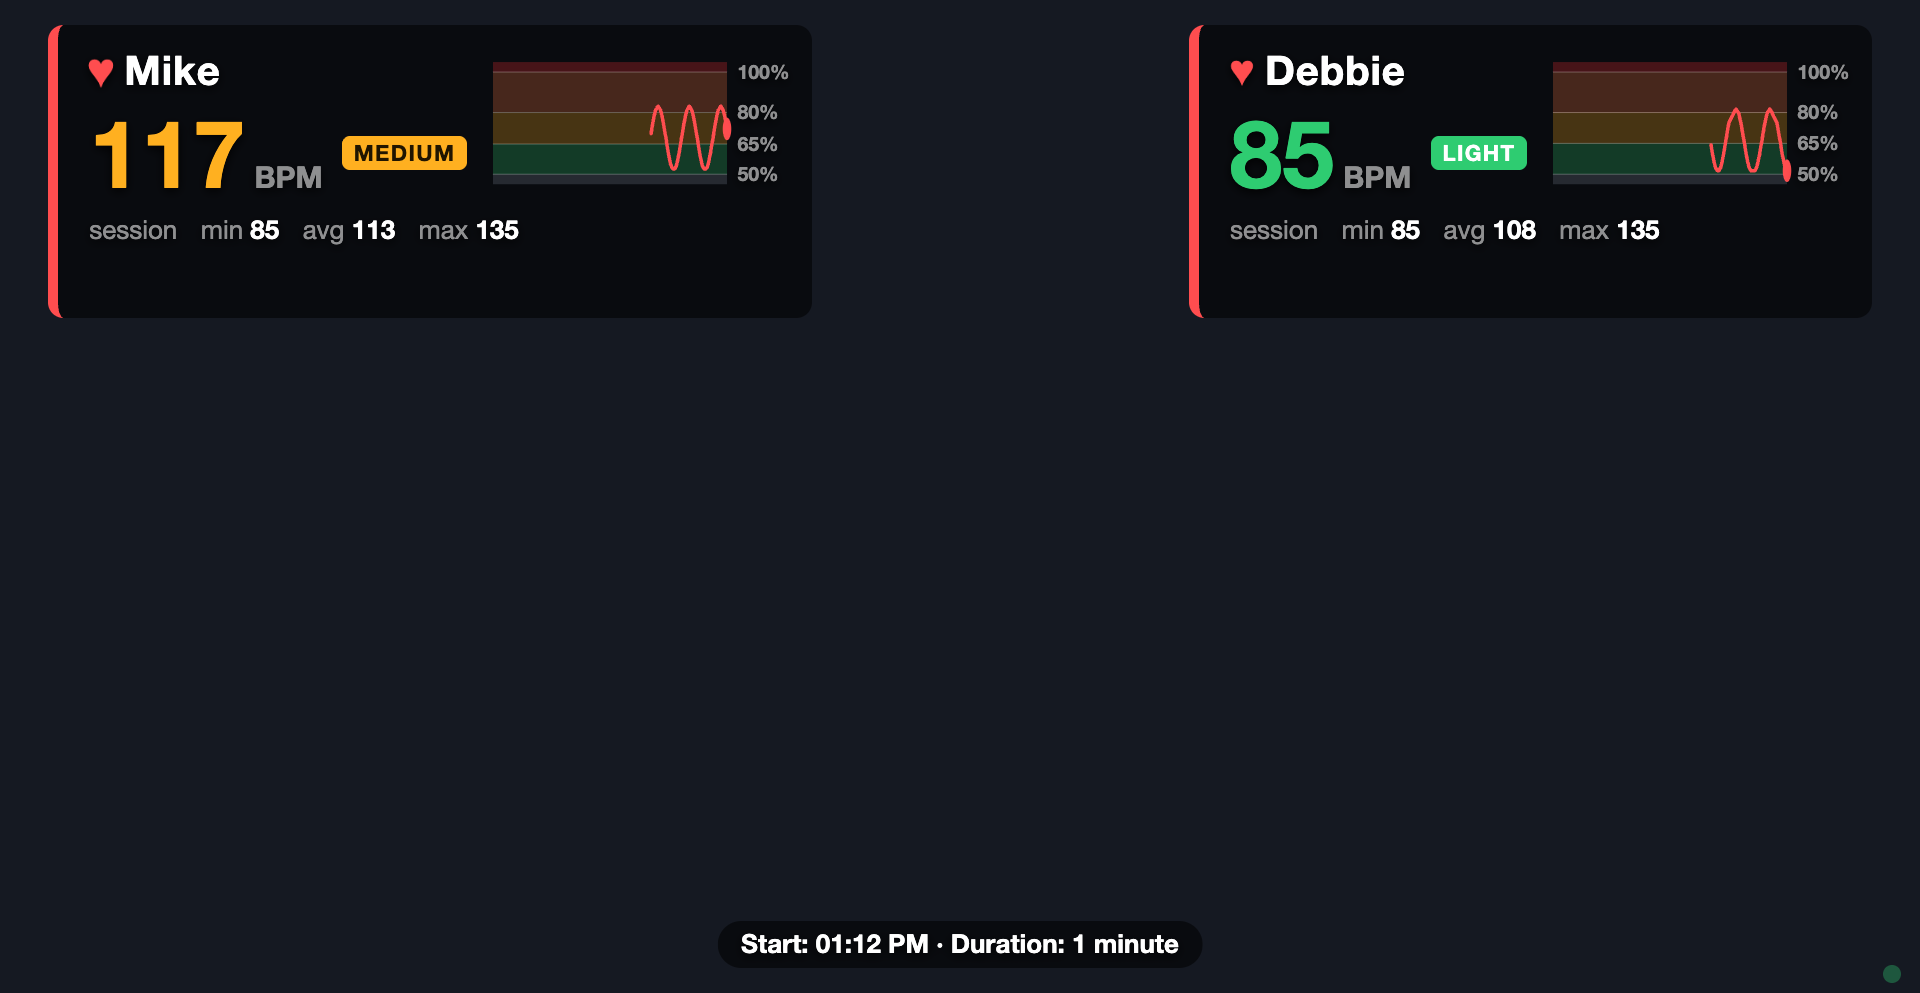
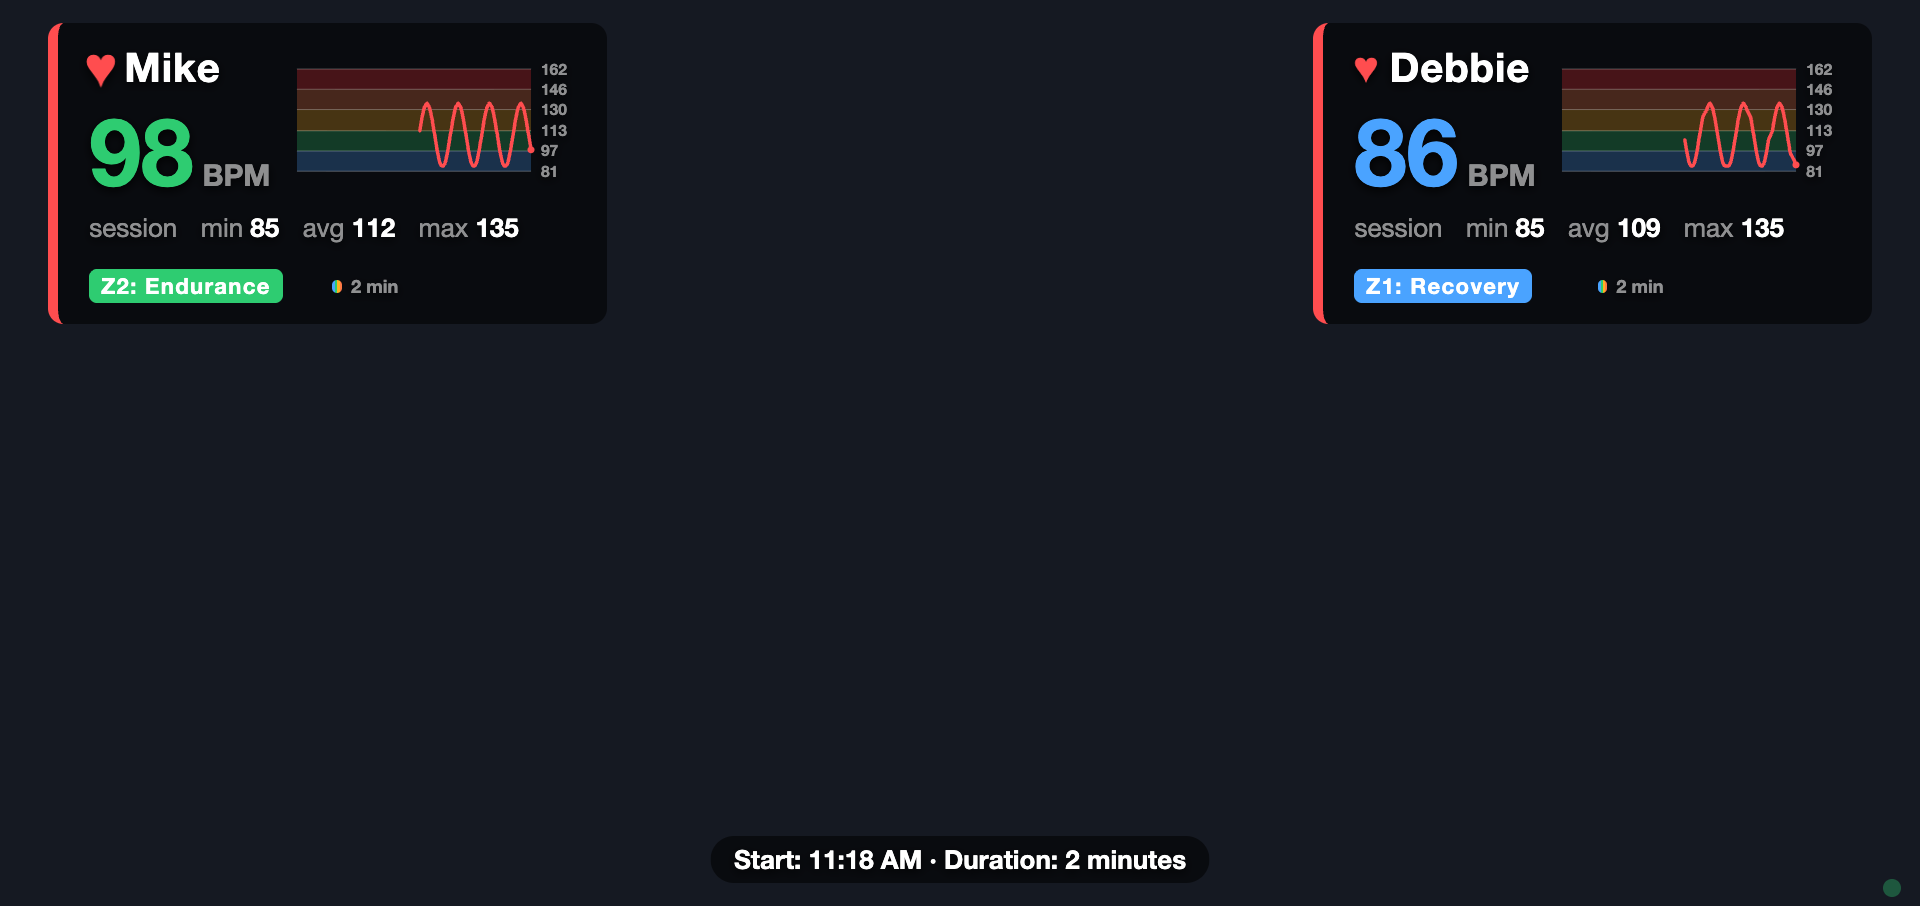
Refresh README hero screenshot to the current overlay UI
Regenerated from the simulator: standard zone chips (Z2: Endurance /
Z1: Recovery), BPM-cutoff axis labels, and the time-in-zone bars.

Claude-Session: https://claude.ai/code/session_01UNXVAex5PsbbTM6i5bZrsQ

diff --git a/README.md b/README.md
@@ -2,9 +2,11 @@
 
 Real-time heart-rate video overlay for remote training sessions.
 
-![Overlay page showing two participant cards with live BPM, intensity-zone
-chips, banded sparklines, and the session clock — composited over a dark
-backdrop standing in for video](docs/overlay-screenshot.png)
+![Overlay page showing two participant cards with live BPM colored by
+intensity zone, zone chips (Z1: Recovery / Z2: Endurance), banded sparklines
+with BPM cut-off labels, time-in-zone bars, and the session clock —
+composited over a dark backdrop standing in for
+video](docs/overlay-screenshot.png)
 
 bio-overlay reads live heart-rate data from up to two Polar BLE chest straps in
 one location, renders those metrics as a transparent browser overlay, and lets
